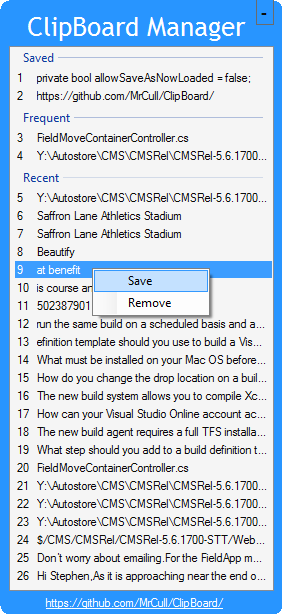
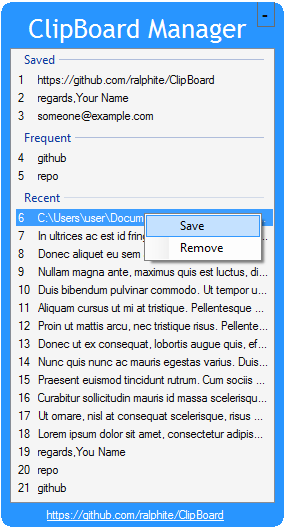
prep for merge to main repo
prep for merge to main repo
credit original repo in the link on the app

diff --git a/ClipBoard/MainForm.Designer.cs b/ClipBoard/MainForm.Designer.cs
@@ -31,9 +31,9 @@ namespace ClipBoard
         private void InitializeComponent()
         {
             this.components = new System.ComponentModel.Container();
-            System.Windows.Forms.ListViewGroup listViewGroup4 = new System.Windows.Forms.ListViewGroup("Saved", System.Windows.Forms.HorizontalAlignment.Left);
-            System.Windows.Forms.ListViewGroup listViewGroup5 = new System.Windows.Forms.ListViewGroup("Frequent", System.Windows.Forms.HorizontalAlignment.Left);
-            System.Windows.Forms.ListViewGroup listViewGroup6 = new System.Windows.Forms.ListViewGroup("Recent", System.Windows.Forms.HorizontalAlignment.Left);
+            System.Windows.Forms.ListViewGroup listViewGroup1 = new System.Windows.Forms.ListViewGroup("Saved", System.Windows.Forms.HorizontalAlignment.Left);
+            System.Windows.Forms.ListViewGroup listViewGroup2 = new System.Windows.Forms.ListViewGroup("Frequent", System.Windows.Forms.HorizontalAlignment.Left);
+            System.Windows.Forms.ListViewGroup listViewGroup3 = new System.Windows.Forms.ListViewGroup("Recent", System.Windows.Forms.HorizontalAlignment.Left);
             System.ComponentModel.ComponentResourceManager resources = new System.ComponentModel.ComponentResourceManager(typeof(MainForm));
             this.listView = new System.Windows.Forms.ListView();
             this.indexColumnHeader = ((System.Windows.Forms.ColumnHeader)(new System.Windows.Forms.ColumnHeader()));
@@ -65,16 +65,16 @@ namespace ClipBoard
             this.listView.ForeColor = System.Drawing.Color.Black;
             this.listView.FullRowSelect = true;
             this.listView.GridLines = true;
-            listViewGroup4.Header = "Saved";
-            listViewGroup4.Name = "savedListViewGroup";
-            listViewGroup5.Header = "Frequent";
-            listViewGroup5.Name = "frequentListViewGroup";
-            listViewGroup6.Header = "Recent";
-            listViewGroup6.Name = "recentListViewGroup";
+            listViewGroup1.Header = "Saved";
+            listViewGroup1.Name = "savedListViewGroup";
+            listViewGroup2.Header = "Frequent";
+            listViewGroup2.Name = "frequentListViewGroup";
+            listViewGroup3.Header = "Recent";
+            listViewGroup3.Name = "recentListViewGroup";
             this.listView.Groups.AddRange(new System.Windows.Forms.ListViewGroup[] {
-            listViewGroup4,
-            listViewGroup5,
-            listViewGroup6});
+            listViewGroup1,
+            listViewGroup2,
+            listViewGroup3});
             this.listView.HeaderStyle = System.Windows.Forms.ColumnHeaderStyle.None;
             this.listView.Location = new System.Drawing.Point(9, 46);
             this.listView.MultiSelect = false;
@@ -158,7 +158,7 @@ namespace ClipBoard
             this.linkLabelGitHub.Size = new System.Drawing.Size(184, 13);
             this.linkLabelGitHub.TabIndex = 2;
             this.linkLabelGitHub.TabStop = true;
-            this.linkLabelGitHub.Text = "https://github.com/MrCull/ClipBoard/";
+            this.linkLabelGitHub.Text = "https://github.com/ralphite/ClipBoard";
             this.linkLabelGitHub.LinkClicked += new System.Windows.Forms.LinkLabelLinkClickedEventHandler(this.linkLabelGitHub_LinkClicked);
             // 
             // labelMinimize
